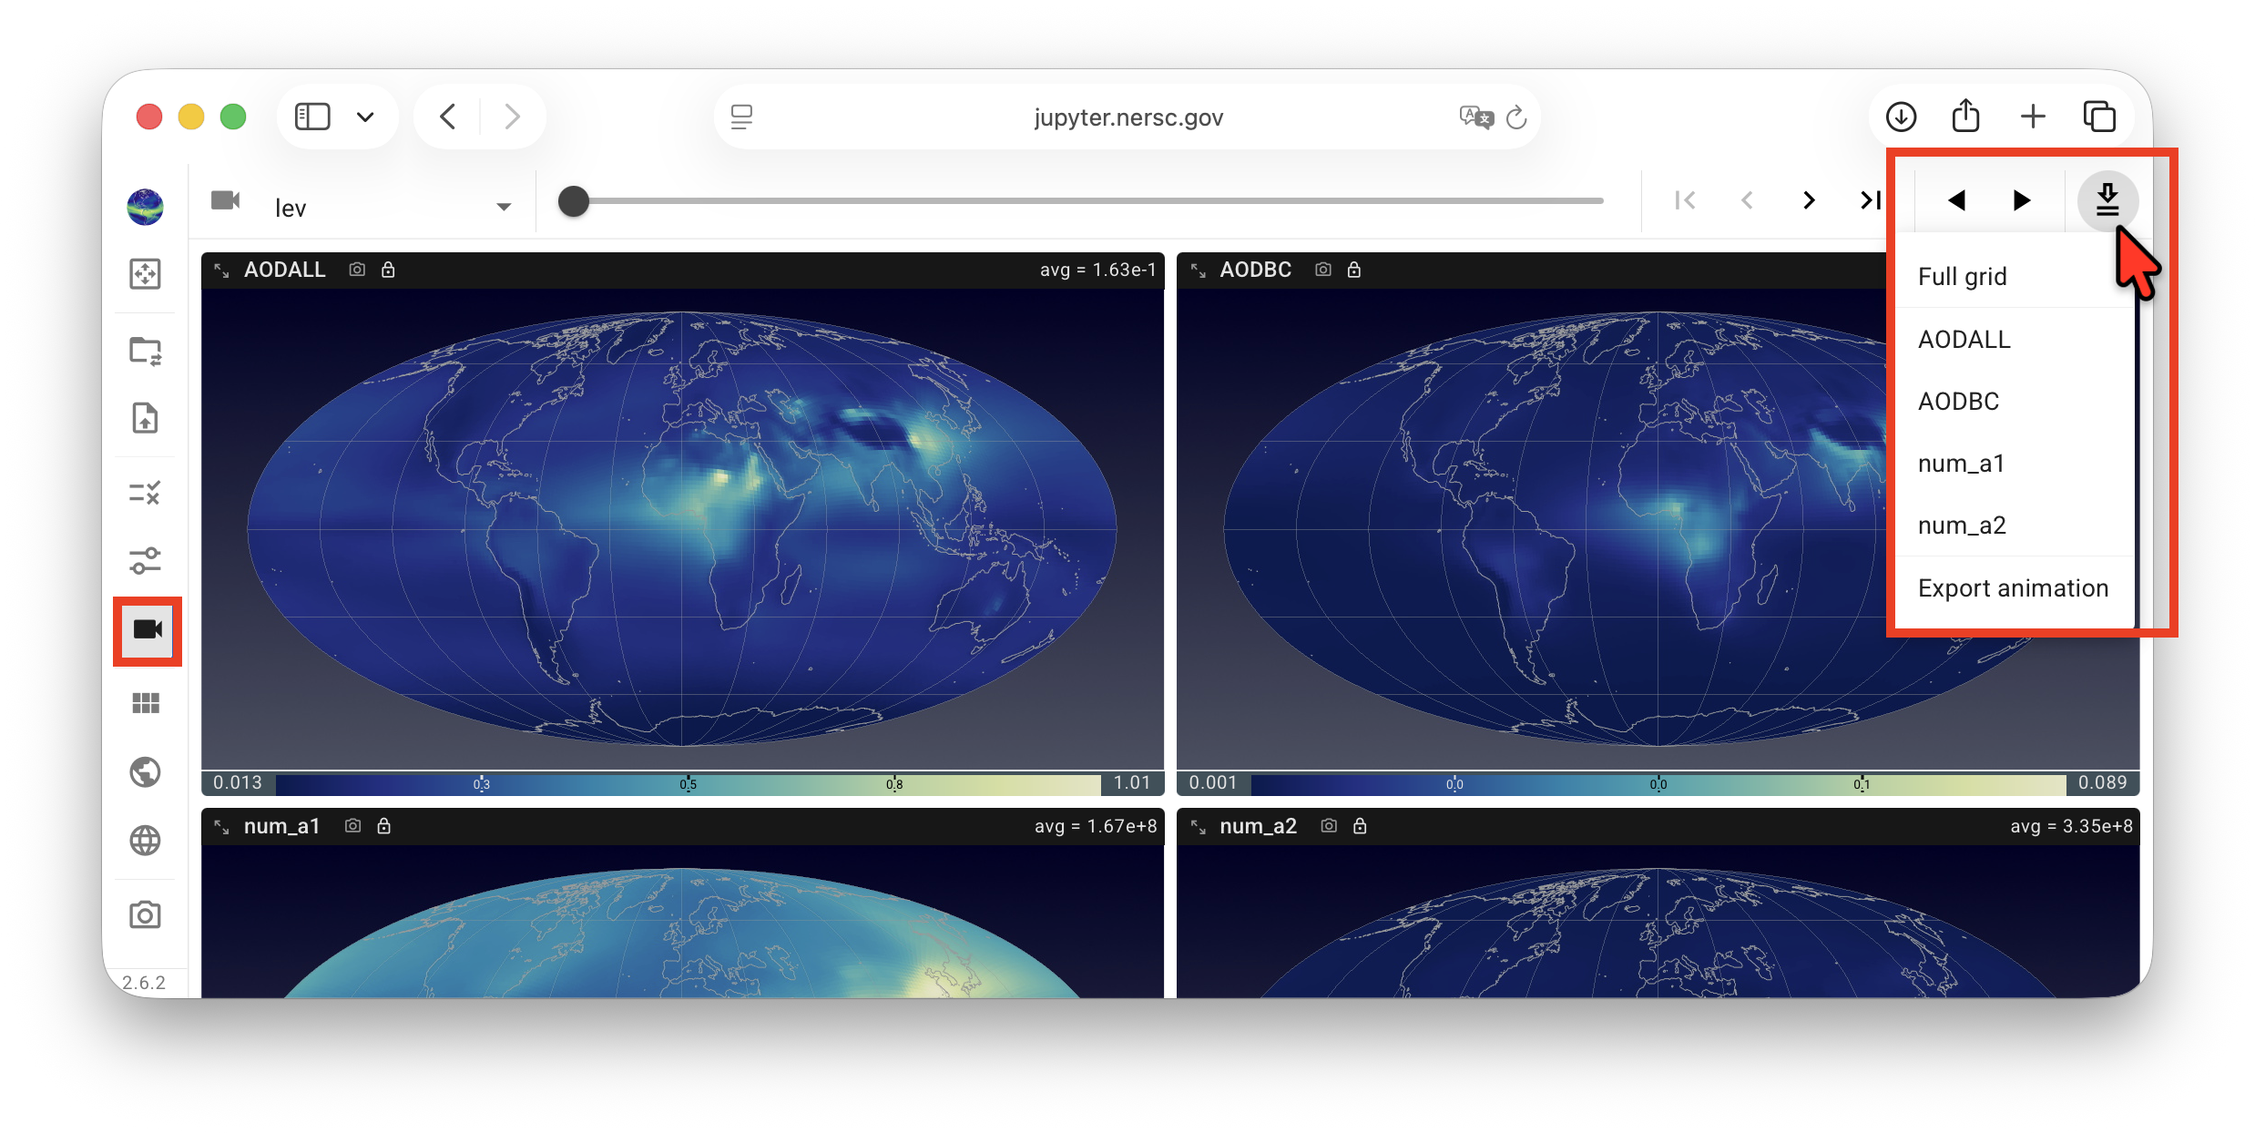
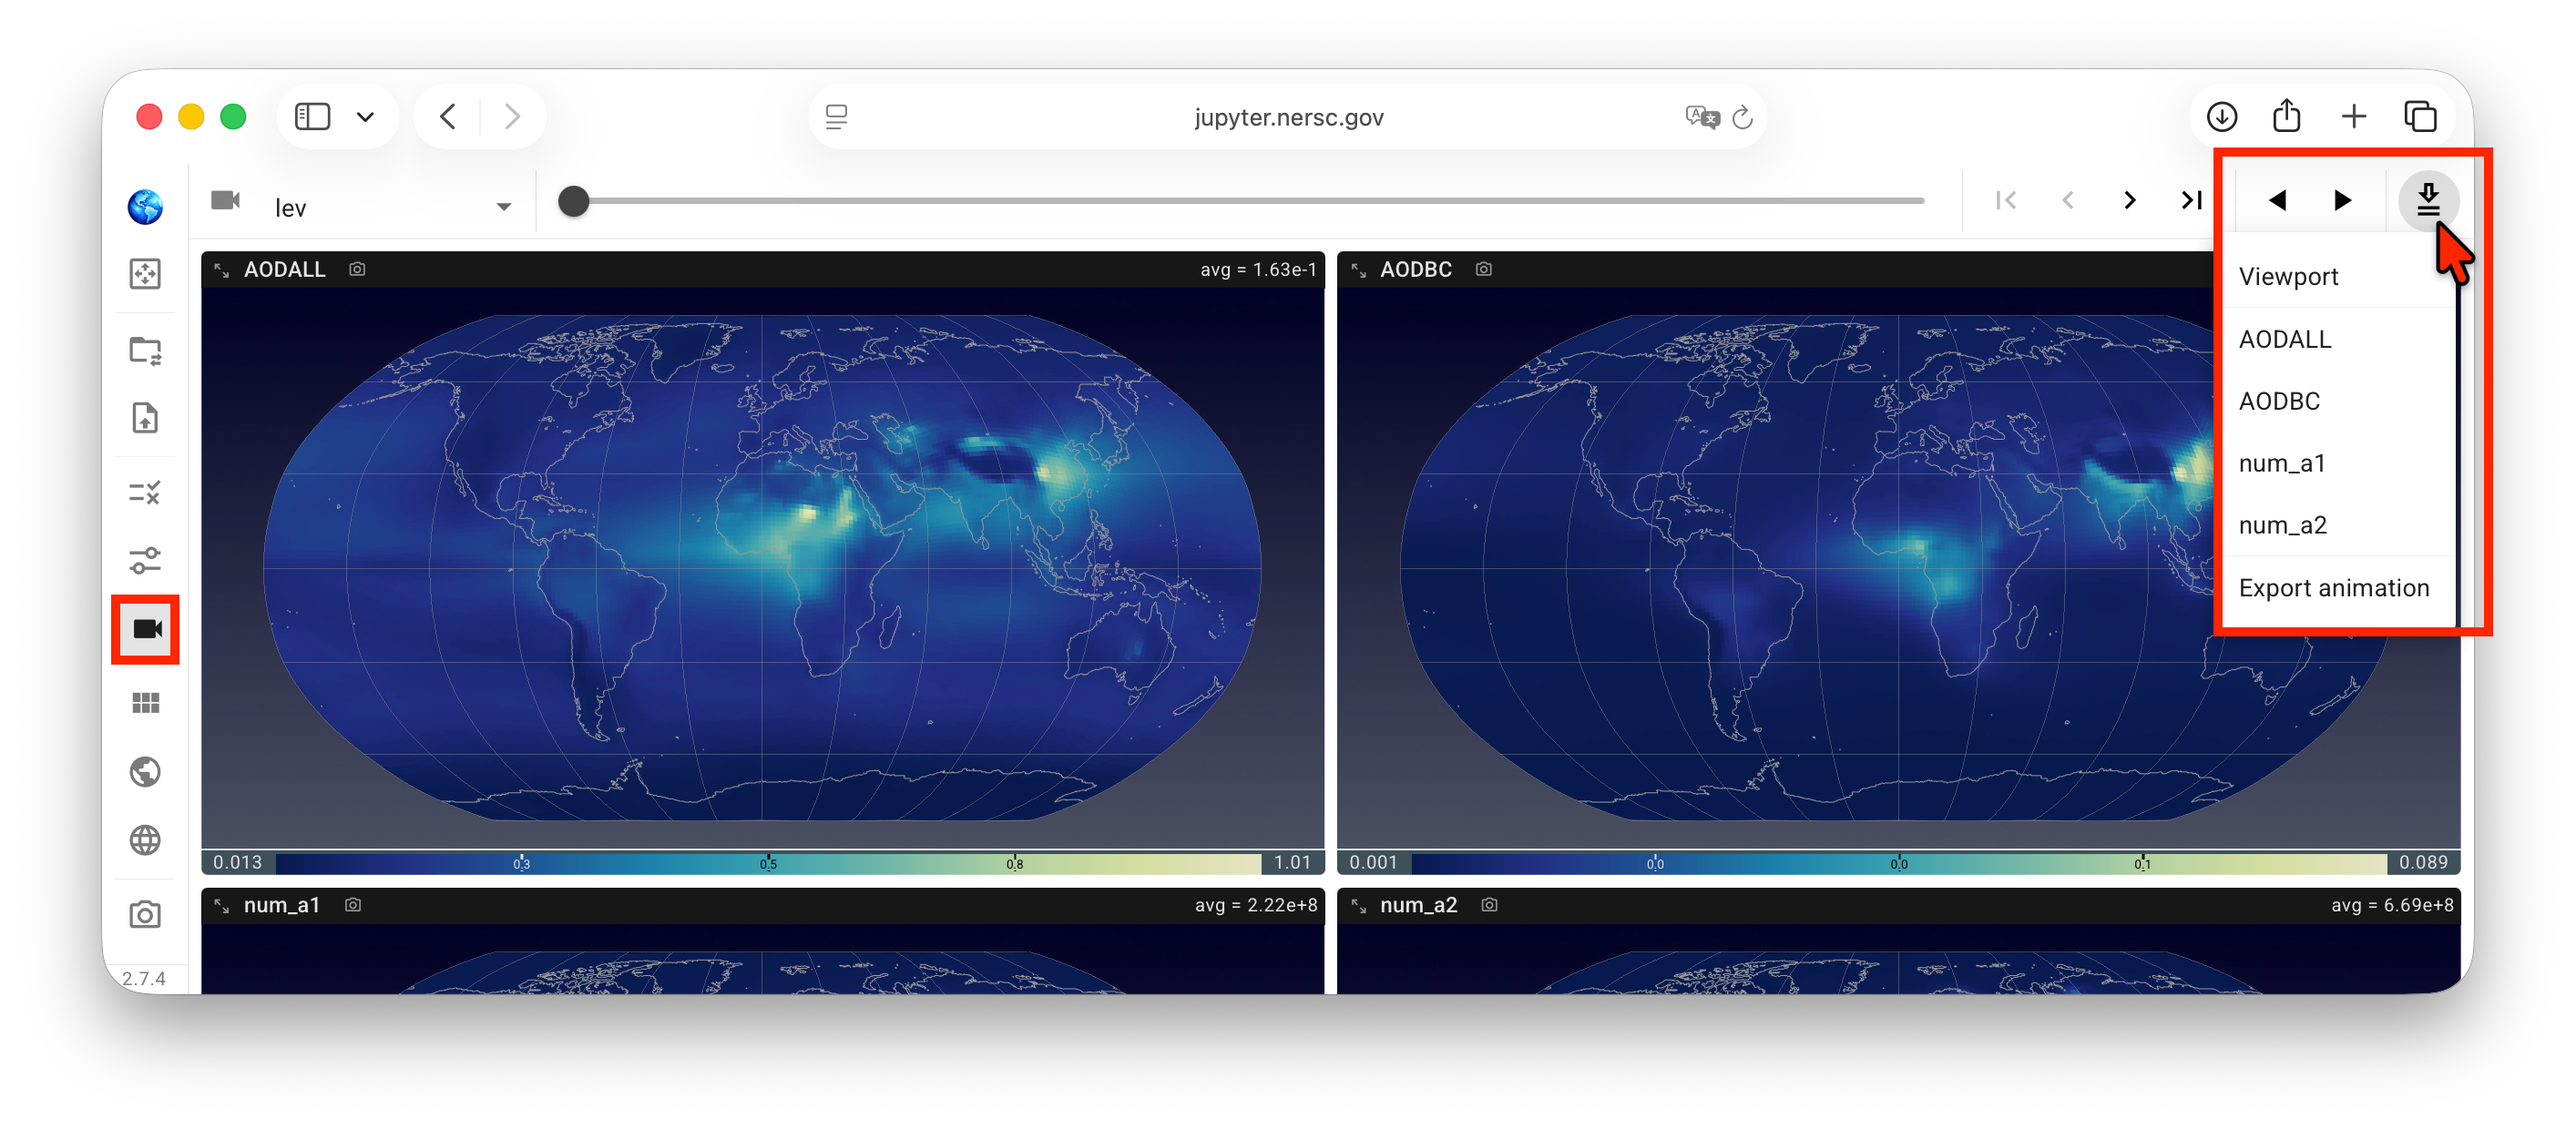
doc: update screenshots for lat/lon cropping and image/animation download

diff --git a/docs/guides/quickview/miscellaneous.md b/docs/guides/quickview/miscellaneous.md
@@ -2,7 +2,7 @@
 
 This page summarizes several additional convenient features in QuickView.
 
-## Choosing map projection and extent {#maps}
+## Choosing map projection and geographical region {#maps}
 
 The map projection used for the contour plots can be changed using the mini menu
 activated by a click on the Earth icon in the vertical tool bar—or by keyboard shortcuts:
@@ -14,7 +14,7 @@ activated by a click on the Earth icon in the vertical tool bar—or by keyboard
 
 ![lat/lon sliders](./screenshots/latlon_sliders.png){ width="70%", align=right }
 
-The map extent, i.e., the latitude-longitude bounds to be displayed in the contour plots,
+The geographical region, i.e., the latitude and longitude bounds to be displayed in the contour plots,
 can be adjusted using the sliders in the lat/lon cropping panel activated by a click on
 the Earth grid icon in the vertical toolbar.
 
